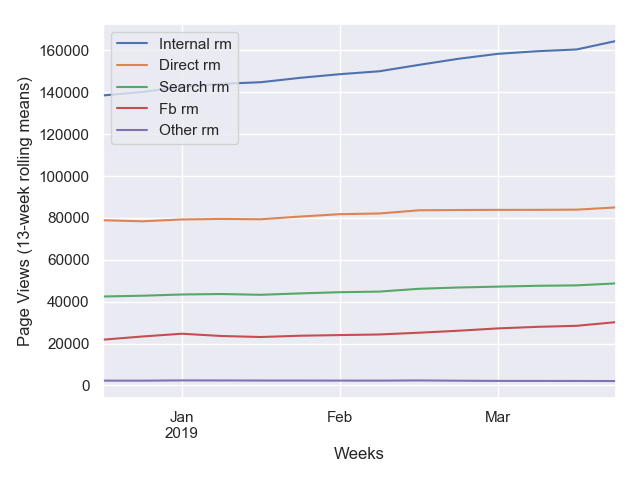
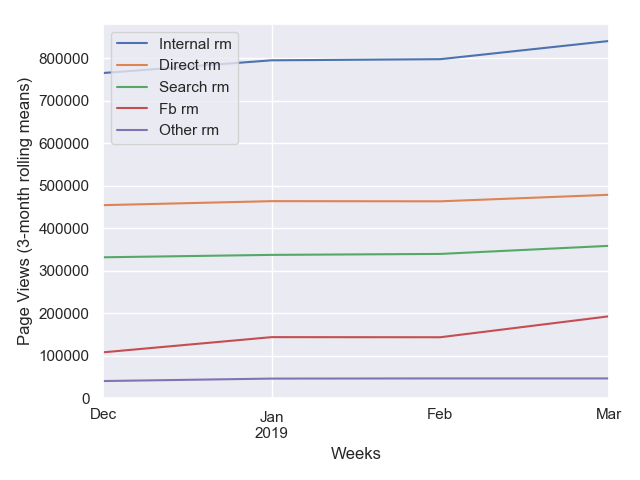
april 3 early

diff --git a/test2.py b/test2.py
@@ -146,7 +146,10 @@ def top_article_by_referrer(articles, total, name, col_name):
         s += f'''{item['Title']}''' + newline
         # s += f'''By {author} in {section}'''
         # s += f''' | {item['Publish date'][:-6]} | Asset# [{assetID}]({item['URL']})''' + newline
-        s += f'''**{t(u.percentage(item[col_name], total))}**% of total -- **{u.humanize(item[col_name])}** clicks'''
+        if col_name == 'Social interactions':
+            s += f'''**{t(u.percentage(item[col_name], total))}**% of total -- **{u.humanize(item[col_name])}** interactions'''
+        else:
+            s += f'''**{t(u.percentage(item[col_name], total))}**% of total -- **{u.humanize(item[col_name])}** clicks'''
         s += f''' | asset [{assetID}]({item['URL']})''' + newline
         s += newline
     if name == 'Other':
@@ -247,23 +250,32 @@ df_site = df.sort_values(by=['Date'])
 
 # Add columns of calculations we'll need
 # rolling means
-df_site['Views rm'] = df_site['Views'].rolling(window=13, center=False).mean()
+if freq == 'weekly':
+    r_units = 13
+if freq == 'daily':
+    r_units = 90
+if freq == 'monthly':
+    r_units = 3
+
+df_site['Views rm'] = df_site['Views'].rolling(window=r_units, center=False).mean()
 # print(df_site.tail(1))
 # print(df_site[['Views','Views rm']])
+
+
 df_site['Visitors rm'] = df_site['Visitors'].rolling(
-    window=13, center=False).mean()
+    window=r_units, center=False).mean()
 df_site['Minutes rm'] = df_site['Engaged minutes'].rolling(
-    window=13, center=False).mean()
-df_site['Fb rm'] = df_site['Fb refs'].rolling(window=13, center=False).mean()
-df_site['Tw rm'] = df_site['Tw refs'].rolling(window=13, center=False).mean()
+    window=r_units, center=False).mean()
+df_site['Fb rm'] = df_site['Fb refs'].rolling(window=r_units, center=False).mean()
+df_site['Tw rm'] = df_site['Tw refs'].rolling(window=r_units, center=False).mean()
 df_site['Search rm'] = df_site['Search refs'].rolling(
-    window=13, center=False).mean()
+    window=r_units, center=False).mean()
 df_site['Other rm'] = df_site['Other refs'].rolling(
-    window=13, center=False).mean()
+    window=r_units, center=False).mean()
 df_site['Direct rm'] = df_site['Direct refs'].rolling(
-    window=13, center=False).mean()
+    window=r_units, center=False).mean()
 df_site['Internal rm'] = df_site['Internal refs'].rolling(
-    window=13, center=False).mean()
+    window=r_units, center=False).mean()
 
 # Percentages
 df_site['Social%'] = round(
@@ -324,7 +336,7 @@ shifts = [
     {'text': 'Internal', 'value': internal_delta},
 ]
 report += f'''\n## {freq.title()} report {site.title()}\n'''
-report += f'''### HIGHLIGHTS:\n'''
+report += f'''### SITE HIGHLIGHTS:\n'''
 # need test here: if pv number 6 digits, fraction point = 0, but if 7, fraction point = 2
 report += f'''Page views: {u.humanize(pv, 2) if pv > 1000000 else u.humanize(pv, 0)}, **{pv_vs_ra:+}%** vs average.\n'''
 report += f'''Breakdown %: {df_site.tail(1)['Social%'].item():.0f} social, '''
@@ -339,10 +351,14 @@ for x in sorted(shifts, key=lambda k: k['value'], reverse=True):
     if abs(x['value']) > 999:
         report += f'''{x['text']} **{u.humanize(x['value'])}**, '''
 report += '\n\n'
-report += f'''Visitors: {u.humanize(v, 0)}, **{v_vs_ra:+}%** vs average.\n'''
-report += f'''Minutes: {u.humanize(m, 0)}, **{m_vs_ra:+}%** vs average.\n'''
-
-report += f'''##### *Average is 13-week rolling mean.'''
+report += f'''Visitors: {u.humanize(v, 2) if v > 1000000 else u.humanize(v, 0)}, **{v_vs_ra:+}%** vs average.\n'''
+report += f'''Minutes: {u.humanize(m, 2) if m > 1000000 else u.humanize(m, 0)}, **{m_vs_ra:+}%** vs average.\n'''
+if freq == 'weekly':
+    report += f'''##### *Average is 13-week rolling mean.'''
+if freq == 'daily':
+    report += f'''##### *Average is 90-day rolling mean.'''
+if freq == 'monthly':
+    report += f'''##### *Average is 3-month rolling mean.'''
 # TEST POINT
 # print(report)
 
@@ -353,7 +369,12 @@ df_site[df_site['Views rm'].notnull()].plot(x='Date', y=['Internal rm',
 # plt.tight_layout()
 plt.grid(b=True, which='major', axis='y')
 plt.xlabel('Weeks')
-plt.ylabel('Page Views (13-week rolling means)')
+if freq == 'monthly':
+    plt.ylabel('Page Views (3-month rolling means)')
+if freq == 'weekly':
+    plt.ylabel('Page Views (13-week rolling means)')
+if freq == 'daily':
+    plt.ylabel('Page Views (90-day rolling means)')
 plt.legend(loc='upper left')
 plt.savefig('data_out/s_weekly_ra.png')
 
